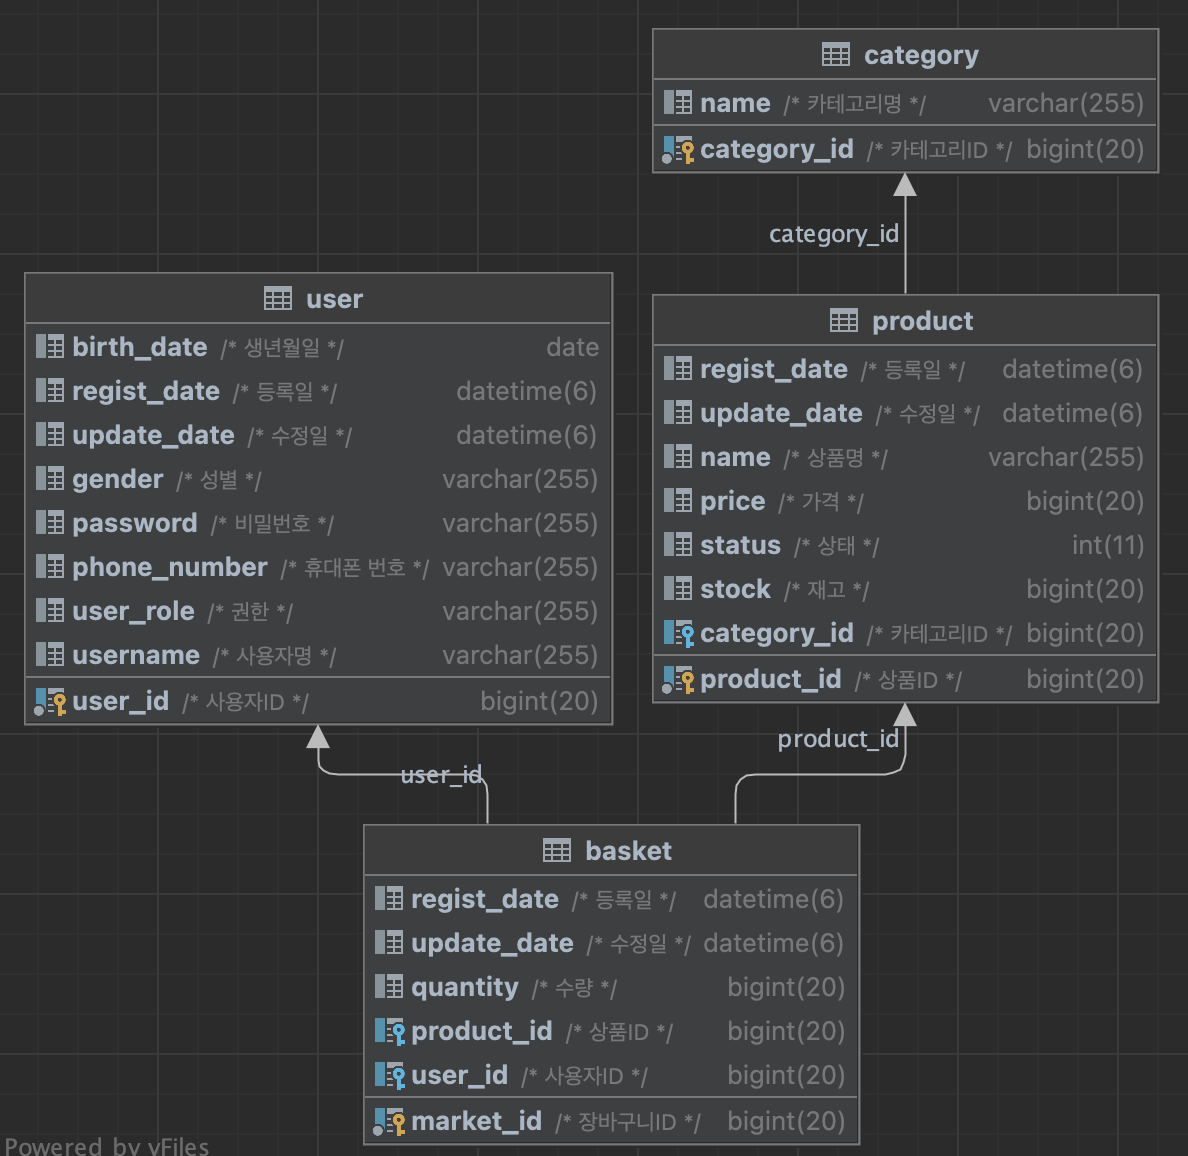
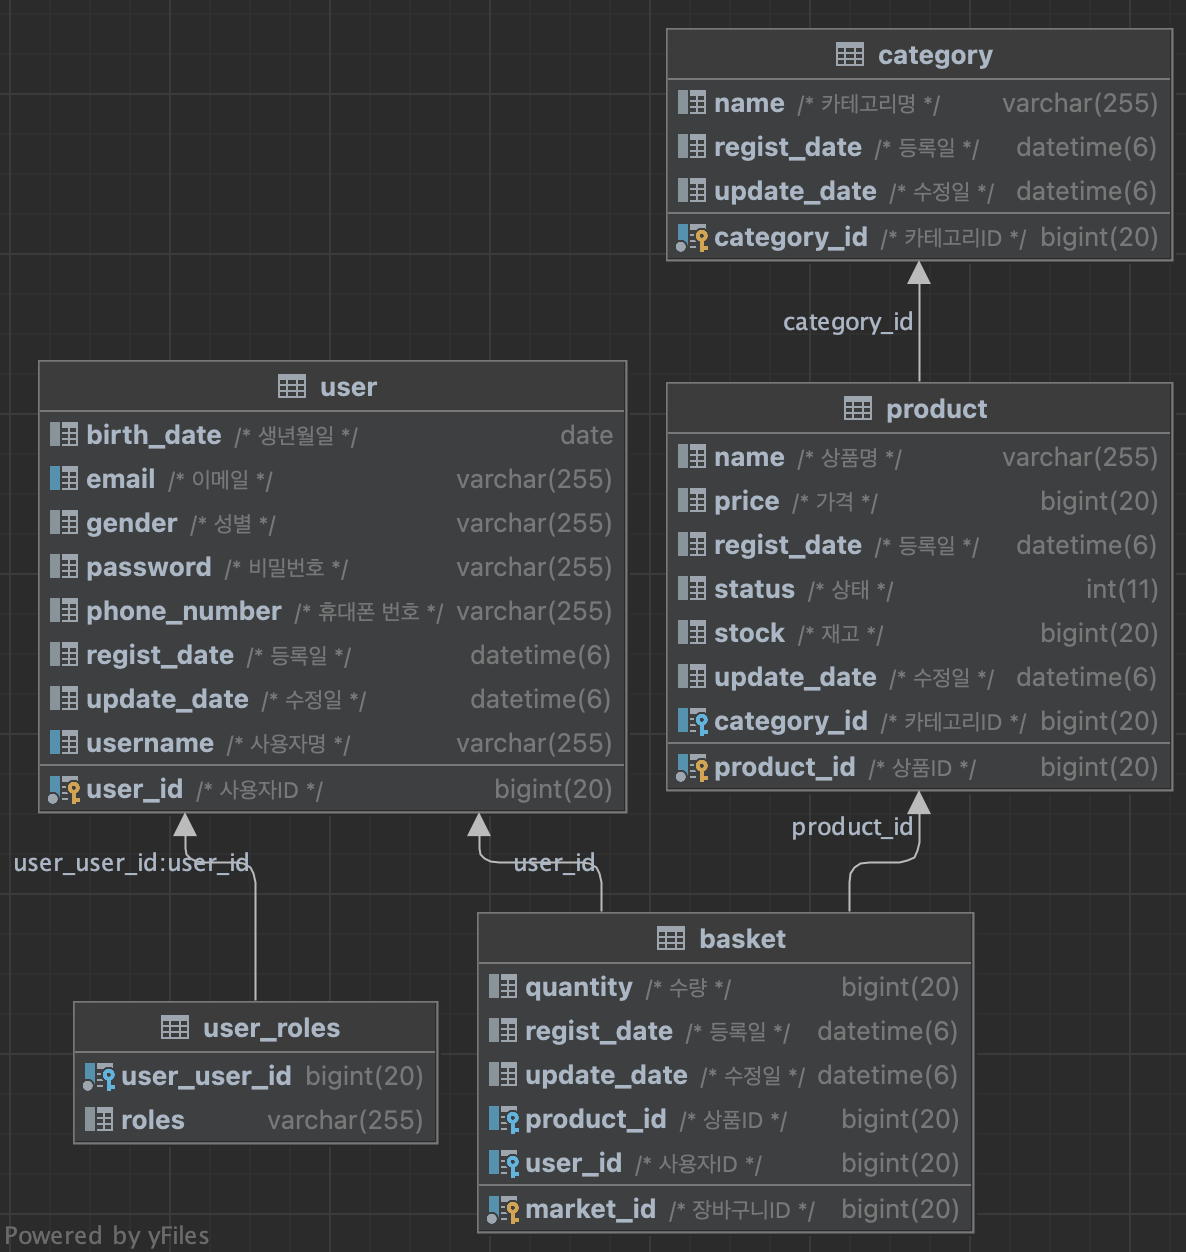
feat: category API 구현

Changed region(s): [[0.0, 0.0, 0.9983, 0.9965], [0.0, 0.9654, 0.1872, 1.0]]

diff --git a/src/main/java/com/zerobase/market/category/service/CategoryService.java b/src/main/java/com/zerobase/market/category/service/CategoryService.java
@@ -1,0 +1,56 @@
+package com.zerobase.market.category.service;
+
+import com.zerobase.market.category.domain.Category;
+import com.zerobase.market.category.dto.CategoryDto;
+import com.zerobase.market.category.dto.CategoryRequest;
+import com.zerobase.market.category.exception.CategoryException;
+import com.zerobase.market.category.repository.CategoryRepository;
+import lombok.RequiredArgsConstructor;
+import org.springframework.data.domain.Page;
+import org.springframework.data.domain.Pageable;
+import org.springframework.stereotype.Service;
+
+import java.time.LocalDateTime;
+
+@Service
+@RequiredArgsConstructor
+public class CategoryService {
+
+    private final CategoryRepository categoryRepository;
+
+    public Page<Category> categoryList(final Pageable pageable){
+        return categoryRepository.findAll(pageable);
+    }
+
+    public CategoryDto registCategory(CategoryDto categoryDto) {
+        boolean nameCheck = categoryRepository.existsByName(categoryDto.getName());
+
+        if(nameCheck){
+            throw new CategoryException();
+        }else{
+            return CategoryDto.builder()
+                    .name(categoryDto.getName())
+                    .registDate(LocalDateTime.now())
+                    .updateDate(LocalDateTime.now())
+                    .build();
+        }
+    }
+
+    public CategoryDto updateCategory(String name, CategoryRequest categoryRequest) {
+        Category category = categoryRepository.findByName(name).orElseThrow(() -> new CategoryException());
+
+        category.updateCategory(categoryRequest.getName(), LocalDateTime.now());
+
+        return CategoryDto.from(category);
+    }
+
+    public int deleteCategory(String name) {
+        boolean categoryCheck = categoryRepository.existsByName(name);
+
+        if(categoryCheck){
+            throw new CategoryException();
+        }else{
+            return categoryRepository.deleteByName(name);
+        }
+    }
+}

diff --git a/src/main/java/com/zerobase/market/category/controller/CategoryController.java b/src/main/java/com/zerobase/market/category/controller/CategoryController.java
@@ -1,0 +1,43 @@
+package com.zerobase.market.category.controller;
+
+import com.zerobase.market.category.dto.CategoryDto;
+import com.zerobase.market.category.dto.CategoryRequest;
+import com.zerobase.market.category.service.CategoryService;
+import lombok.RequiredArgsConstructor;
+import org.springframework.data.domain.Pageable;
+import org.springframework.http.ResponseEntity;
+import org.springframework.web.bind.annotation.DeleteMapping;
+import org.springframework.web.bind.annotation.GetMapping;
+import org.springframework.web.bind.annotation.PathVariable;
+import org.springframework.web.bind.annotation.PostMapping;
+import org.springframework.web.bind.annotation.RequestMapping;
+import org.springframework.web.bind.annotation.RestController;
+
+@RestController
+@RequestMapping("/category")
+@RequiredArgsConstructor
+public class CategoryController {
+
+    private final CategoryService categoryService;
+
+    @GetMapping("/list")
+    public ResponseEntity<?> categoryList(final Pageable pageable){
+        return ResponseEntity.ok(categoryService.categoryList(pageable));
+    }
+
+    @PostMapping("/")
+    public ResponseEntity<?> registCategory(CategoryDto categoryDto){
+        return ResponseEntity.ok(categoryService.registCategory(categoryDto));
+    }
+
+    @PostMapping("/{name}")
+    public ResponseEntity<?> updateCategory(@PathVariable String name, CategoryRequest categoryRequest){
+        return ResponseEntity.ok(categoryService.updateCategory(name, categoryRequest));
+    }
+
+    @DeleteMapping("/{name}")
+    public ResponseEntity<?> deleteCategory(@PathVariable String name){
+        return ResponseEntity.ok(categoryService.deleteCategory(name));
+    }
+
+}

diff --git a/src/main/java/com/zerobase/market/category/domain/Category.java b/src/main/java/com/zerobase/market/category/domain/Category.java
@@ -1,5 +1,7 @@
-package com.zerobase.market.domain;
+package com.zerobase.market.category.domain;
 
+import com.zerobase.market.product.domain.Product;
+import lombok.Builder;
 import lombok.Getter;
 import lombok.RequiredArgsConstructor;
 import org.hibernate.annotations.Comment;
@@ -9,8 +11,8 @@ import javax.persistence.Entity;
 import javax.persistence.GeneratedValue;
 import javax.persistence.GenerationType;
 import javax.persistence.Id;
-import javax.persistence.JoinColumn;
 import javax.persistence.OneToMany;
+import java.time.LocalDateTime;
 import java.util.ArrayList;
 import java.util.List;
 
@@ -26,8 +28,22 @@ public class Category {
     private Long id;
 
     @Comment("카테고리명")
+    @Column(unique = true)
     private String name;
+
+    @Comment("등록일")
+    private LocalDateTime registDate;
+
+    @Comment("수정일")
+    private LocalDateTime updateDate;
 
     @OneToMany(mappedBy = "category")
     private List<Product> productList = new ArrayList<>();
+
+    @Builder
+    public void updateCategory(String name, LocalDateTime updateDate){
+        this.name = name;
+        this.updateDate = updateDate;
+    }
+
 }

diff --git a/src/main/java/com/zerobase/market/category/dto/CategoryDto.java b/src/main/java/com/zerobase/market/category/dto/CategoryDto.java
@@ -1,0 +1,26 @@
+package com.zerobase.market.category.dto;
+
+import com.zerobase.market.category.domain.Category;
+import lombok.Builder;
+import lombok.Data;
+
+import java.time.LocalDateTime;
+
+@Data
+@Builder
+public class CategoryDto {
+    private Long id;
+    private String name;
+    private LocalDateTime registDate;
+    private LocalDateTime updateDate;
+
+    public static CategoryDto from(Category category){
+        return CategoryDto.builder()
+                .id(category.getId())
+                .name(category.getName())
+                .registDate(category.getRegistDate())
+                .updateDate(category.getUpdateDate())
+                .build();
+    }
+
+}

diff --git a/src/main/java/com/zerobase/market/category/repository/CategoryRepository.java b/src/main/java/com/zerobase/market/category/repository/CategoryRepository.java
@@ -1,0 +1,15 @@
+package com.zerobase.market.category.repository;
+
+import com.zerobase.market.category.domain.Category;
+import org.springframework.data.jpa.repository.JpaRepository;
+import org.springframework.stereotype.Repository;
+
+import java.util.Optional;
+
+@Repository
+public interface CategoryRepository extends JpaRepository<Category, Long> {
+
+    Optional<Category> findByName(String name);
+    boolean existsByName(String name);
+    int deleteByName(String name);
+}

diff --git a/src/main/java/com/zerobase/market/category/exception/CategoryException.java b/src/main/java/com/zerobase/market/category/exception/CategoryException.java
@@ -1,0 +1,17 @@
+package com.zerobase.market.category.exception;
+
+import com.zerobase.market.common.exception.commonException;
+import org.springframework.http.HttpStatus;
+
+public class CategoryException extends commonException {
+
+    @Override
+    public int getStatusCode() {
+        return HttpStatus.BAD_REQUEST.value();
+    }
+
+    @Override
+    public String getMessage() {
+        return "이미 사용중인 카테고리입니다.";
+    }
+}

diff --git a/src/main/java/com/zerobase/market/category/dto/CategoryRequest.java b/src/main/java/com/zerobase/market/category/dto/CategoryRequest.java
@@ -1,0 +1,14 @@
+package com.zerobase.market.category.dto;
+
+import lombok.Builder;
+import lombok.Data;
+
+import java.time.LocalDateTime;
+
+@Data
+@Builder
+public class CategoryRequest {
+    private Long id;
+    private String name;
+    private LocalDateTime updateDate;
+}
